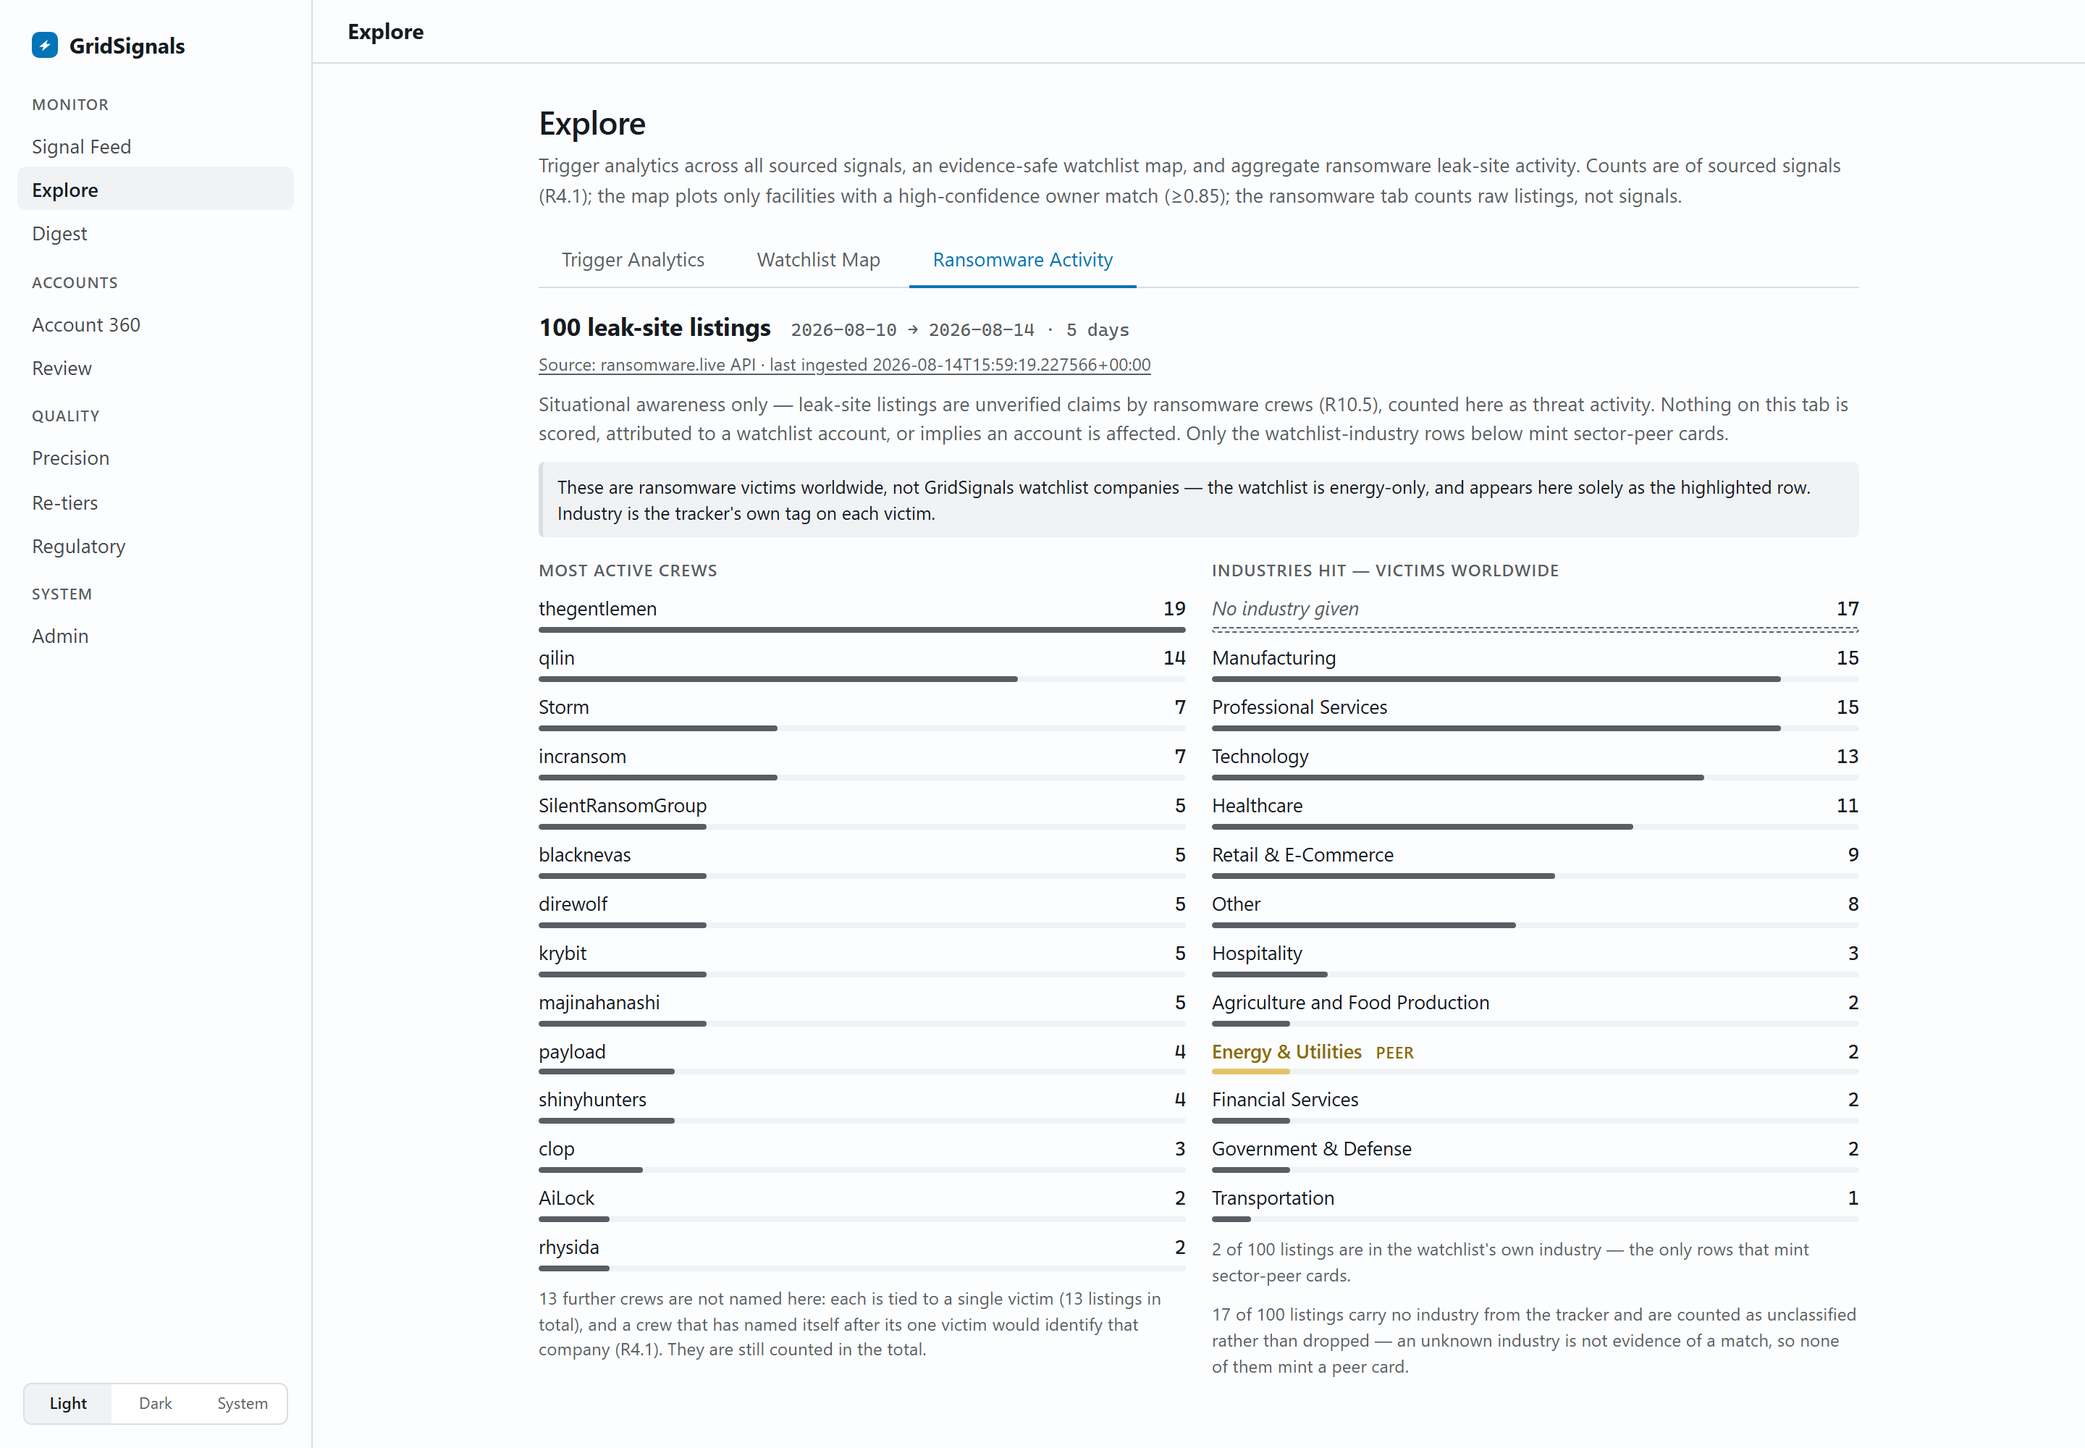
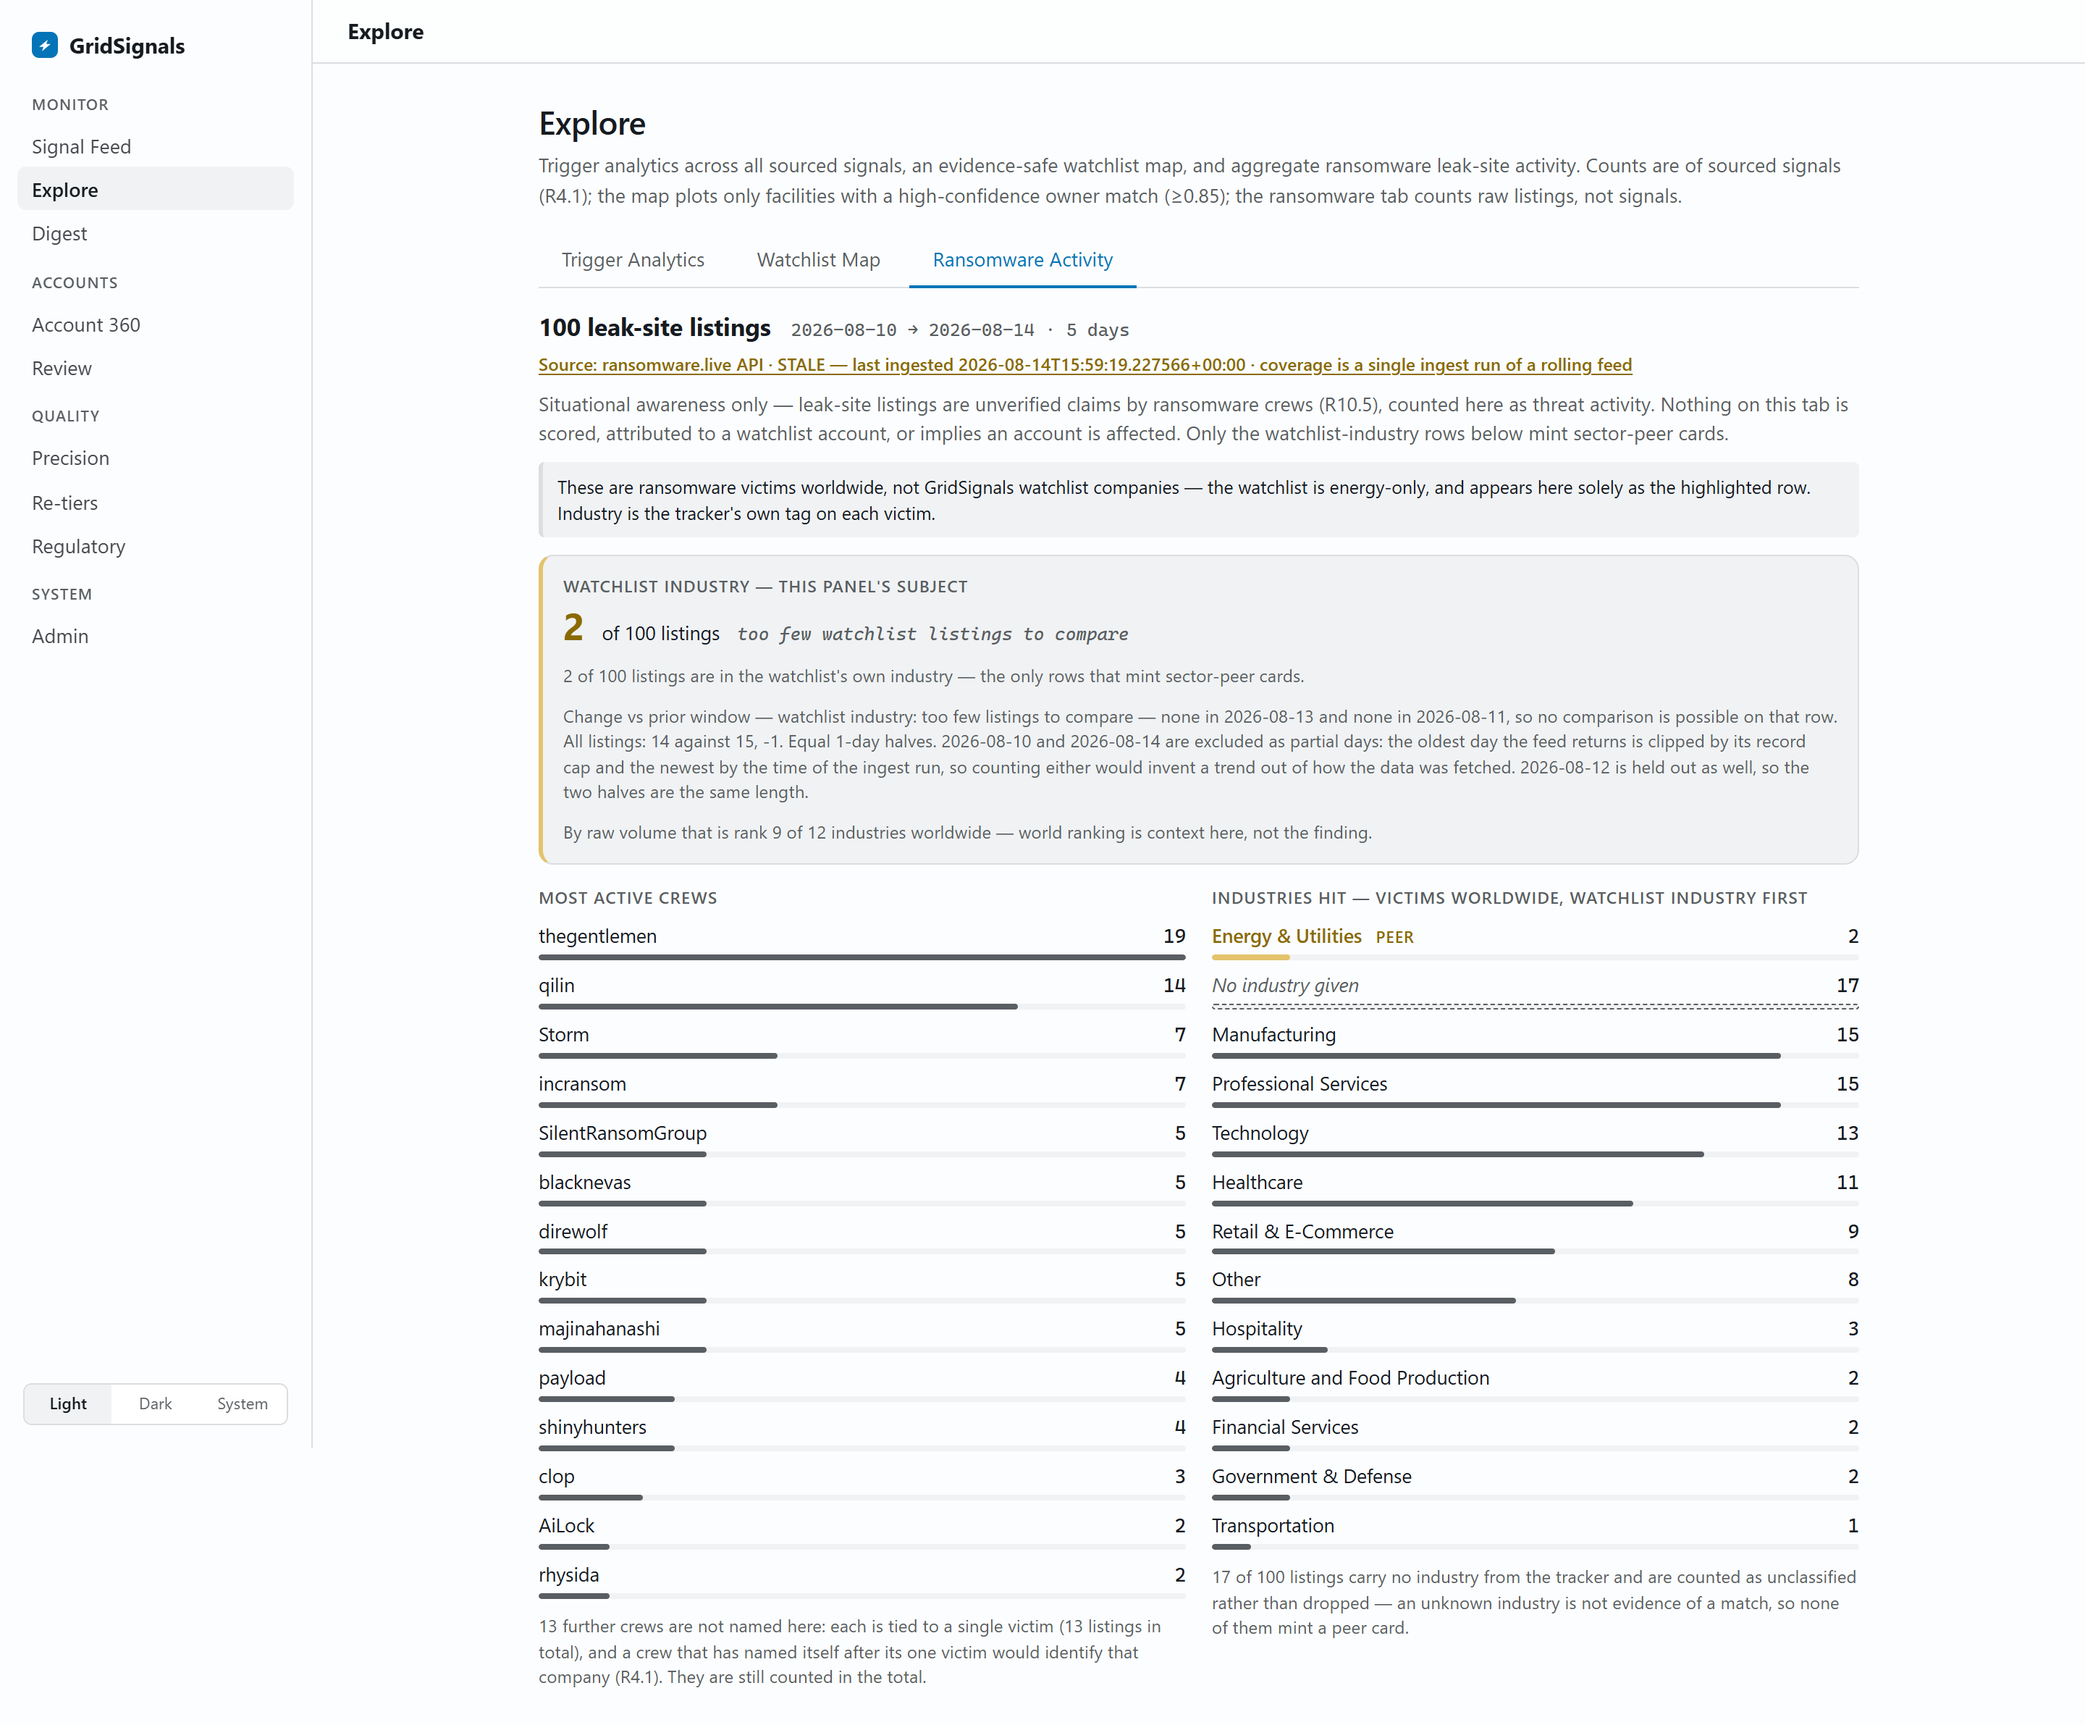
Withhold the subject delta when the watchlist is absent from both halves (R8.5, R6.6)
Rendering the branch against the live store showed the lede printing the word
"no change" off a 0-vs-0 comparison: the watchlist industry holds 2 listings in
100 and both fall on excluded boundary days, so neither half contained one.
That is not a fabricated rise, but it is a fabricated finding -- "no change"
reads as a measured result when the denominator is zero on both sides, directly
under a lede that says "2 of 100 listings".

The corpus-wide floor only asks whether two whole interior days exist. Add a
second, narrower floor for the subject row: the watchlist delta is withheld
unless at least one watchlist listing lands in one half, and the panel says
"too few listings to compare" while still showing the two zeroes so the reader
can see why. "no change" stays reserved for a measured zero, so the two states
never read alike.

test_truncated_oldest_day_does_not_report_a_rise had pinned the old behaviour
(its corpus is entirely Manufacturing, so the subject was 0 on both sides); it
now asserts the withheld form, and the scoped assertion keeps the legitimate
"no change" on that fixture's all-listings clause, which IS a measured zero.

Also: regenerate assets/screenshots/explore-ransomware.png against the live
store, fix "Equal 2-days halves" -> "Equal 2-day halves", and reconcile the
README's ransomware paragraph, which still said the watchlist "appears as the
single highlighted row" when it now leads the panel.

diff --git a/app/ui_web/templates/explore.html b/app/ui_web/templates/explore.html
@@ -97,7 +97,7 @@
       <p class="gs-rw-lede-figure">
         <span class="gs-rw-lede-count">{{ ransomware.subject_count }}</span>
         <span class="gs-rw-lede-of">of {{ ransomware.total }} listings</span>
-        {% if ransomware.subject_delta %}<span class="gs-rw-lede-delta">{{ ransomware.subject_delta }} vs prior window</span>{% else %}<span class="gs-rw-lede-delta none">no prior window</span>{% endif %}
+        <span class="gs-rw-lede-delta{% if not ransomware.subject_delta %} none{% endif %}">{{ ransomware.subject_delta_note }}</span>
       </p>
       <p class="gs-rw-note">{{ ransomware.peer_note }}</p>
       <p class="gs-rw-note{% if not ransomware.baseline_available %} gs-rw-nobaseline{% endif %}">{{ ransomware.baseline_note }}</p>

diff --git a/tests/test_ui_ransomware_activity.py b/tests/test_ui_ransomware_activity.py
@@ -625,11 +625,67 @@ class TestBaselineDelta(unittest.TestCase):
         self.assertEqual(b["total_delta"], 0)
         self.assertEqual((b["prior_total"], b["current_total"]), (12, 12))
         self.assertEqual(b["excluded_boundary"], ["2026-08-10", "2026-08-15"])
-        self.assertEqual(view["subject_delta"], "no change")
         self.assertNotIn("+", view["baseline_note"])
+        # This corpus is entirely Manufacturing, so the WATCHLIST row has no
+        # listing on either side. The subject delta is withheld rather than
+        # printing "no change" off a 0-vs-0 comparison — see the subject-floor
+        # test below. The all-listings delta above is unaffected.
+        self.assertEqual(view["subject_delta"], "")
+        self.assertEqual(view["subject_delta_note"],
+                         "too few watchlist listings to compare")
         # And the exclusion is disclosed, not silent.
         self.assertIn("2026-08-10", view["baseline_note"])
         self.assertIn("partial days", view["baseline_note"])
+
+    def test_subject_delta_withheld_when_watchlist_absent_from_both_halves(self):
+        """0 against 0 is not "no change" — it is nothing to compare.
+
+        The corpus-wide floor asks only whether two whole interior days exist.
+        It can pass while the watchlist's own industry appears on neither side,
+        which is exactly the live corpus's shape: 2 watchlist listings in 100,
+        both on excluded boundary days. Printing "no change" there states a
+        measured finding off an empty denominator.
+        """
+        conn = fixture_conn(TRUNCATED_CORPUS)
+        activity = data.ransomware_activity(conn)
+        view = render.ransomware_activity_view(activity)
+        conn.close()
+
+        b = activity["baseline"]
+        # The corpus-wide comparison IS available; only the subject's is not.
+        self.assertTrue(b["available"])
+        self.assertFalse(b["subject_available"])
+        self.assertEqual((b["prior_peer"], b["current_peer"]), (0, 0))
+
+        self.assertEqual(view["subject_delta"], "")
+        note = view["baseline_note"]
+        # "no change" is reserved for a MEASURED zero, so it must not appear in
+        # the SUBJECT clause, which had nothing to measure. It legitimately
+        # does appear in the all-listings clause of this very note (12 against
+        # 12 is a real zero) — which is exactly why the two must read
+        # differently, and why this assertion is scoped rather than global.
+        subject_clause, _, totals_clause = note.partition("All listings:")
+        self.assertNotIn("no change", view["subject_delta_note"])
+        self.assertNotIn("no change", subject_clause)
+        self.assertIn("no change", totals_clause)
+        self.assertIn("too few listings to compare", note)
+        # The two zeroes are still shown, so the reader sees WHY it is withheld.
+        self.assertIn("none in", note)
+        # ...and the all-listings comparison still reports normally.
+        self.assertIn("12 against 12", note)
+
+    def test_subject_delta_renders_when_the_watchlist_has_listings(self):
+        """The floor withholds an empty comparison; it must not suppress a
+        real one. BASELINE_CORPUS puts watchlist listings in both halves."""
+        conn = fixture_conn(BASELINE_CORPUS)
+        activity = data.ransomware_activity(conn)
+        view = render.ransomware_activity_view(activity)
+        conn.close()
+
+        self.assertTrue(activity["baseline"]["subject_available"])
+        self.assertEqual(view["subject_delta"], "+3")
+        self.assertEqual(view["subject_delta_note"], "+3 vs prior window")
+        self.assertIn("watchlist industry: 5 listings", view["baseline_note"])
 
     def test_odd_interior_drops_the_middle_day_not_an_end(self):
         # Five covered days leaves three interior days. Dropping an END would

diff --git a/app/ui_web/render.py b/app/ui_web/render.py
@@ -1329,15 +1329,27 @@ def _ransomware_baseline_note(activity):
             "support.")
         return note
     half = b["half_days"]
-    span = "day" if half == 1 else "days"
+    current_span = _span_label(b["current_start"], b["current_end"])
+    prior_span = _span_label(b["prior_start"], b["prior_end"])
+    if b.get("subject_available"):
+        subject = (
+            f"watchlist industry: {b['current_peer']} listings "
+            f"({current_span}) against {b['prior_peer']} ({prior_span}), "
+            f"{_delta_word(b['peer_delta'])}.")
+    else:
+        # Zero on both sides is not "no change" — see the subject floor note in
+        # app/ui/data.py. Say the comparison is unsupported and still show the
+        # two zeroes, so the reader can see WHY rather than take it on trust.
+        # "no change" is reserved for a measured zero (_delta_word), so it is
+        # deliberately not reused here — the two would be indistinguishable.
+        subject = (
+            "watchlist industry: too few listings to compare — none in "
+            f"{current_span} and none in {prior_span}, so no comparison is "
+            "possible on that row.")
     note = (
-        f"Change vs prior window — watchlist industry: {b['current_peer']} "
-        f"listings ({_span_label(b['current_start'], b['current_end'])}) "
-        f"against {b['prior_peer']} "
-        f"({_span_label(b['prior_start'], b['prior_end'])}), "
-        f"{_delta_word(b['peer_delta'])}. "
+        f"Change vs prior window — {subject} "
         f"All listings: {b['current_total']} against {b['prior_total']}, "
-        f"{_delta_word(b['total_delta'])}. Equal {half}-{span} halves.")
+        f"{_delta_word(b['total_delta'])}. Equal {half}-day halves.")
     if boundary:
         note += (
             f" {' and '.join(boundary)} "
@@ -1442,13 +1454,23 @@ def ransomware_activity_view(activity):
             "finding.")
 
     baseline = activity.get("baseline") or {}
+    # The lede's delta is withheld unless the WATCHLIST row itself has a
+    # listing on one side of the split (data._ransomware_baseline). The note
+    # carries the full phrase so the template never has to compose one.
     subject_delta = (_delta_word(baseline["peer_delta"])
-                     if baseline.get("available") else "")
+                     if baseline.get("subject_available") else "")
+    if subject_delta:
+        subject_delta_note = f"{subject_delta} vs prior window"
+    elif baseline.get("available"):
+        subject_delta_note = "too few watchlist listings to compare"
+    else:
+        subject_delta_note = "no prior window"
 
     return {
         "total": total,
         "subject_count": peers,
         "subject_delta": subject_delta,
+        "subject_delta_note": subject_delta_note,
         "subject_rank_note": subject_rank_note,
         "baseline_available": bool(baseline.get("available")),
         "baseline_note": _ransomware_baseline_note(activity),

diff --git a/app/ui/data.py b/app/ui/data.py
@@ -2724,6 +2724,16 @@ def _ransomware_baseline(day_total, day_peer):
 
     Both n's are returned, never just the difference: a delta with no
     denominators is unreadable on a corpus this thin.
+
+    ``subject_available`` is a SECOND, narrower floor for the watchlist row.
+    The corpus-wide floor only asks whether two whole interior days exist; it
+    says nothing about whether the watchlist's own industry appeared on any of
+    them. On the live corpus it does not — the watchlist holds 2 listings in
+    100 and both fall on excluded boundary days — so the subject would compare
+    0 against 0 and the lede would render the word "no change". That is not a
+    fabricated rise, but it is a fabricated FINDING: "no change" reads as a
+    measured result when the denominator is zero on both sides. The subject
+    delta is withheld unless at least one watchlist listing lands in one half.
     """
     days = sorted(day_total)
     prior, current, boundary, middle = _baseline_split(days)
@@ -2734,7 +2744,7 @@ def _ransomware_baseline(day_total, day_peer):
     }
     if not prior:
         base.update({
-            "available": False, "half_days": 0,
+            "available": False, "subject_available": False, "half_days": 0,
             "prior_start": "", "prior_end": "",
             "current_start": "", "current_end": "",
             "prior_total": 0, "current_total": 0, "total_delta": None,
@@ -2746,7 +2756,9 @@ def _ransomware_baseline(day_total, day_peer):
     prior_peer = sum(day_peer.get(d, 0) for d in prior)
     current_peer = sum(day_peer.get(d, 0) for d in current)
     base.update({
-        "available": True, "half_days": len(prior),
+        "available": True,
+        "subject_available": (prior_peer + current_peer) > 0,
+        "half_days": len(prior),
         "prior_start": prior[0], "prior_end": prior[-1],
         "current_start": current[0], "current_end": current[-1],
         "prior_total": prior_total, "current_total": current_total,

diff --git a/README.md b/README.md
@@ -70,7 +70,9 @@ The FastAPI + HTMX interface in its default light theme (a dark and a system the
 
 ![Explore — Watchlist Map](assets/screenshots/explore-map.png)
 
-The Ransomware Activity tab counts raw leak-site listings rather than signals, over the window the stored data actually spans (ransomware.live is a rolling recent feed, so that window is days, not months). These are ransomware victims worldwide — not watchlist companies, which are energy-only; the watchlist appears as the single highlighted row. Only an energy-industry victim supports the "sector peer" claim a card would make, so the other listings never mint a card, and this tab is where they stay visible as threat context: unscored, attributed to no account, credited to the source.
+The Ransomware Activity tab counts raw leak-site listings rather than signals, over the window the stored data actually spans (ransomware.live is a rolling recent feed, so that window is days, not months). These are ransomware victims worldwide — not watchlist companies, which are energy-only. The panel **leads with the watchlist's own industry row** and its change against the prior window; world volume ranking sits underneath as context, since "who is busiest worldwide" is not the question the tab exists to answer. Only an energy-industry victim supports the "sector peer" claim a card would make, so the other listings never mint a card, and this tab is where they stay visible as threat context: unscored, attributed to no account, credited to the source.
+
+The prior-window comparison is deliberately conservative, because a trend is the easiest thing on this page to manufacture by accident. Both ends of the covered window are partial days — the oldest is clipped by the feed's fixed record cap, the newest by the clock at ingest time — so both are excluded from both halves (along with the middle day when the interior is odd, to keep the halves equal-length). Too short a corpus reports *no comparable prior window* rather than a number, and a watchlist row absent from both halves says *too few listings to compare* rather than "no change", which would read as a measured result off an empty denominator. The byline states whether coverage came from one ingest run or accumulated across several.
 
 A crew is named only if it is tied to two or more distinct victims. One victim can appear as several listings when the tracker revises a record, so counting listings would let a crew that named itself after its single victim identify that company. Withheld crews are still counted in the total, and the page says how many it is holding back.
 
